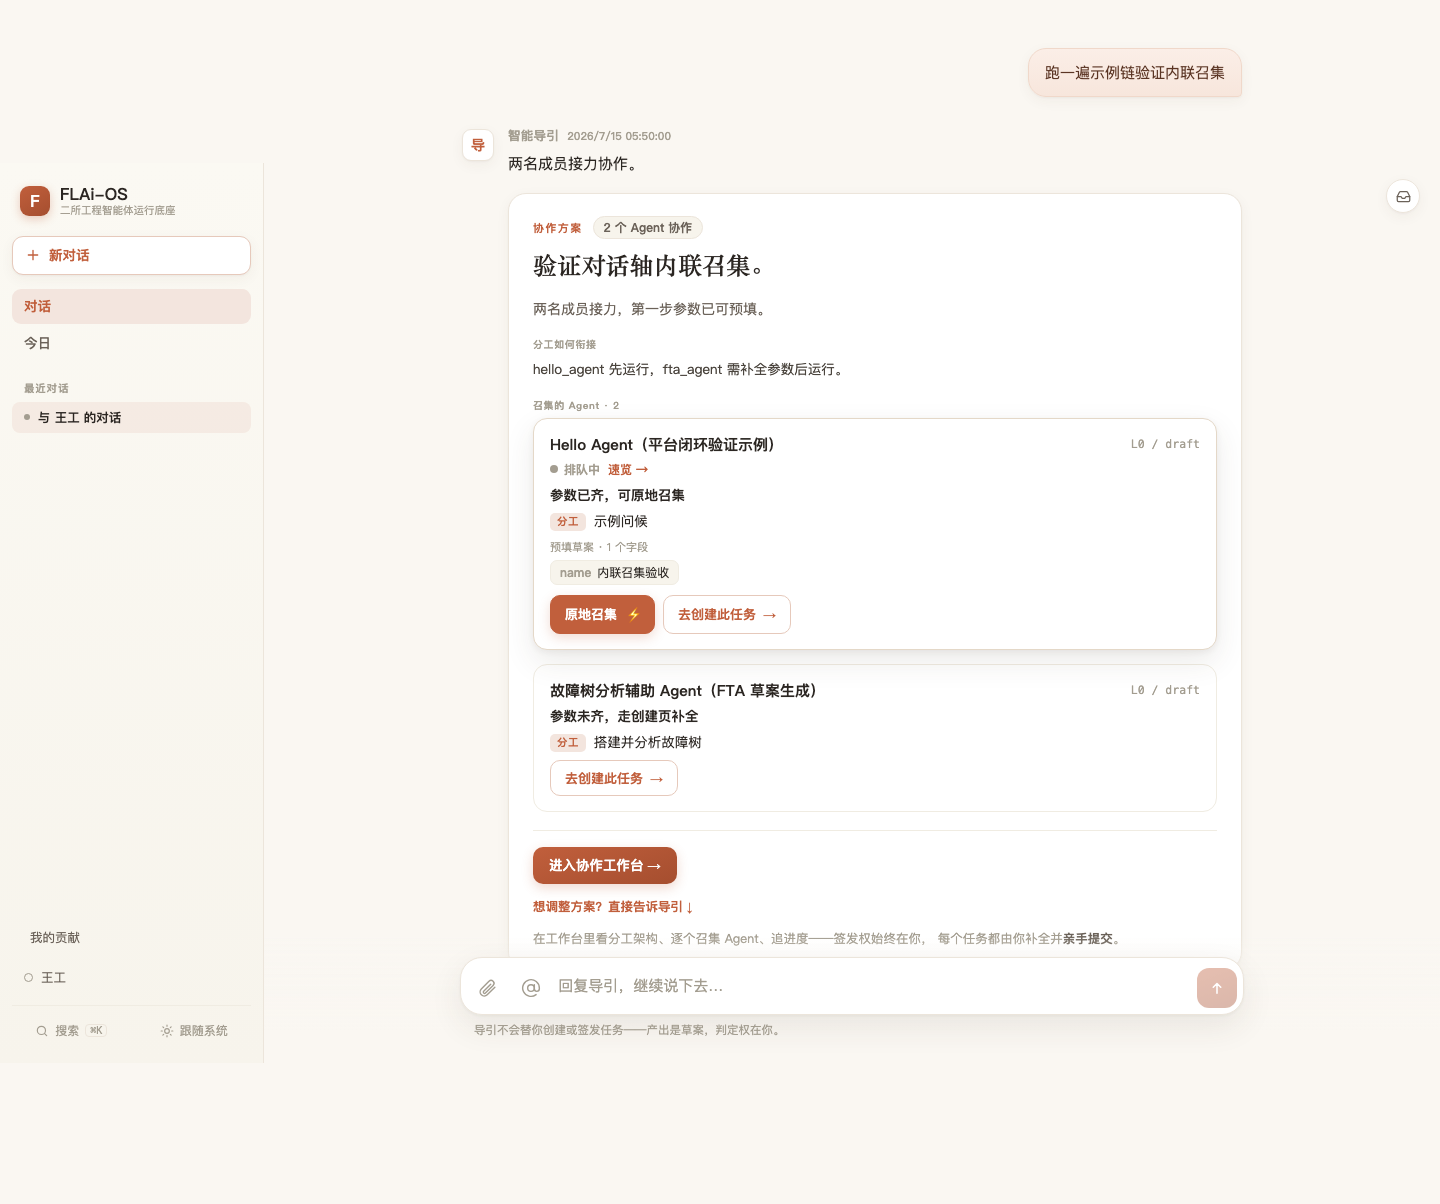
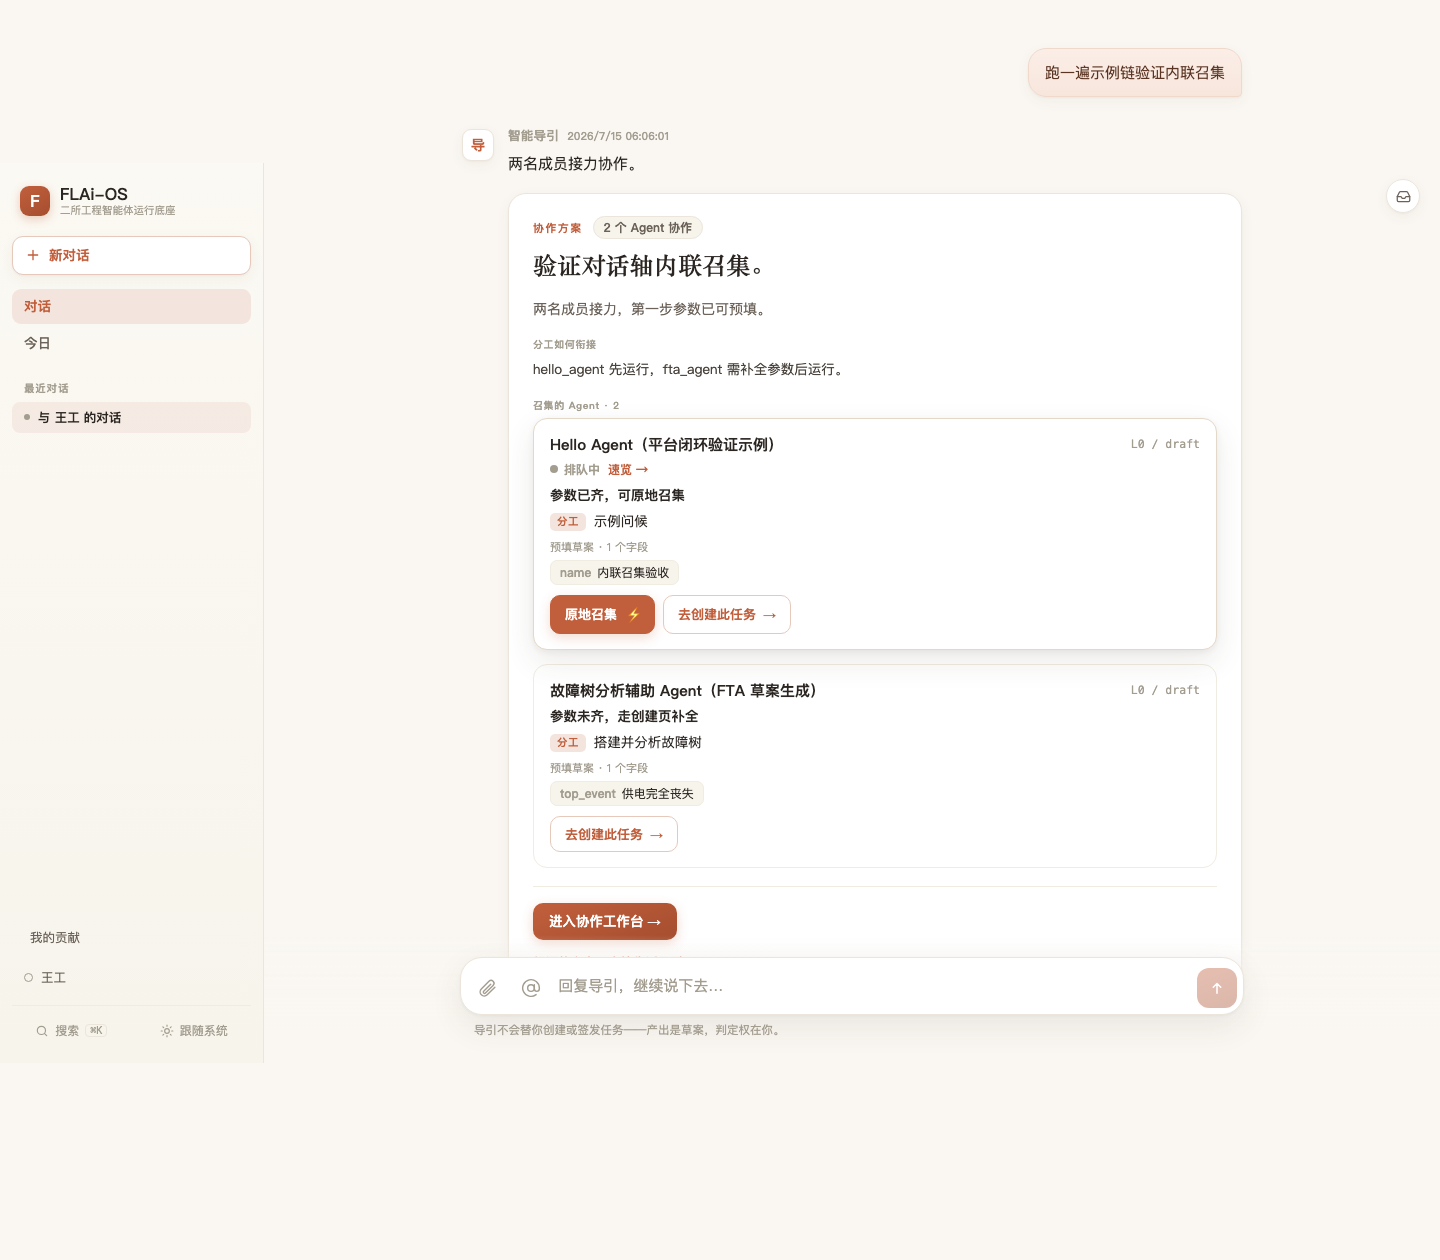
fix: 内联召集三门收紧——就绪判据/会话隔离/只读会话（Codex R0 全采）
R0 三 finding 逐条 grounded 复核属实后落地：

- [P1] 就绪判据：POST /api/tasks 不做即时 schema 校验（校验在 worker 运行期），
  「预填非空」不是就绪。改为预取 GET /api/agents/{id} 的 input_schema，
  required 逐键非空白才提供内联入口（agentSchemaCache，拉不到/未知 fail-closed
  回创建页路径）；e2e ① 对照组升级为部分预填（top_event 有、其余 required 缺）。
- [P1] 武装态会话隔离：inlineKey 加 conversationId 前缀 + watch(conversationId)
  即清 inlineArmed——确认态绝不跨会话存活，二击边界不被复用页面击穿。
- [P2] 只读会话：conversationStatus 从 getConversation/createConversation 如实
  带出（resetToFresh 置 null），渲染与确认双门都要求 active——concluded 会话
  不再展示注定 409 的入口；e2e 新增 ⑦ 归档后重开无内联入口。

e2e 14/14 绿（含新 ①对照/⑦ 两断言）。

confidence: high

diff --git a/frontend/src/views/GuidePage.vue b/frontend/src/views/GuidePage.vue
@@ -338,7 +338,7 @@ import { useRoute, useRouter } from "vue-router";
 import { ElMessage } from "element-plus";
 import { createConversation, postMessage, getConversation } from "../api/conversations";
 import { createTask } from "../api/tasks";
-import { listAgents } from "../api/agents";
+import { listAgents, getAgent } from "../api/agents";
 import { uploadFile as apiUploadFile } from "../api/files";
 import { categoryColor, categoryLabel, categoryTip, maturityTip, statusLabel, taskLampColor, TASK_WORK_STATES, formatTime } from "../utils/format";
 import { openTaskPeek } from "../stores/statusCenter";
@@ -521,6 +521,7 @@ async function send() {
     if (!conversationId.value) {
       const conv = await createConversation({ agentId: GUIDE_AGENT_ID });
       conversationId.value = conv.id;
+      conversationStatus.value = conv.status || "active";
       started.value = true;
       // URL 反映当前会话（可刷新/分享/回退），并让左栏历史即时收录这条新会话。
       router.replace({ path: "/", query: { c: conv.id } });
@@ -541,6 +542,7 @@ async function send() {
     });
     await scrollToBottom();
     ensureConversationTasksFeed(); // 本轮若刚给出 orchestrate 方案，开始为其召集状态保鲜
+    ensureAgentSchemasForMessages(); // 内联召集就绪判据的契约预取（fail-closed）
   } catch (err) {
     // 本轮失败：后端契约是「失败零落库」（幂等重试，ADR-0013），本地同样回滚
     // 乐观气泡并把原文还原到输入框——不在界面上留一条服务端不存在的幽灵消息，
@@ -588,18 +590,65 @@ function openWorkbench() {
 // 只在①多 Agent 方案（单 Agent 保留创建页 conclude_after 归档语义）②预填非空
 // ③会话无携带附件（附件必须经创建页人工过目）时提供；参数不全由 422 如实
 // 透出，引导走「去创建此任务」补全，绝不客户端猜校验。
-const inlineArmed = ref(null); // `${消息idx}:${agent_id}`——同 Agent 出现在两张方案卡不串态
+const inlineArmed = ref(null); // `${会话id}:${消息idx}:${agent_id}`（Codex R0-P1：跨会话绝不串态）
 const inlineBusy = ref(false);
+// 会话可写态（Codex R0-P2）：getConversation/createConversation 如实带出，concluded
+// 只读会话不提供内联召集（否则创建必 409）。未知（null）= fail-closed 不提供。
+const conversationStatus = ref(null);
+// Agent 输入契约缓存（Codex R0-P1）：POST /api/tasks 不做即时 schema 校验（校验在
+// worker 运行期），故「预填就绪」必须由前端按 input_schema.required 逐键判定后才
+// 提供内联路径——schema 拉不到 / 未知一律 fail-closed 回创建页路径。
+const agentSchemaCache = reactive({}); // agent_id -> { loaded: true, schema: object|null }
+
+// 会话切换（含 resetToFresh 置空）即撤武装——确认态绝不跨会话存活。
+watch(conversationId, () => {
+  inlineArmed.value = null;
+});
 
 function inlineKey(agent, idx) {
-  return `${idx}:${agent.agent_id}`;
+  return `${conversationId.value || "none"}:${idx}:${agent.agent_id}`;
+}
+
+function prefillSatisfiesSchema(schema, prefilled) {
+  // 就绪判据（纯函数，fail-closed）：schema 存在、required 明确、每个必填键在预填里
+  // 且非空白。这只是「提供内联入口」的门槛，不替代服务端/worker 的权威校验。
+  if (!schema || typeof schema !== "object") return false;
+  const required = Array.isArray(schema.required) ? schema.required : null;
+  if (required === null) return false;
+  return required.every((k) => {
+    const v = (prefilled || {})[k];
+    return v !== undefined && v !== null && String(v).trim() !== "";
+  });
+}
+
+function ensureAgentSchemasForMessages() {
+  // 方案卡出现（新回复或历史恢复）即预取成员 Agent 的输入契约；失败记 null=不就绪。
+  for (const m of messages.value) {
+    const plan = m && m.recommendation;
+    if (!plan || plan.decision !== "orchestrate" || !Array.isArray(plan.agents)) continue;
+    for (const a of plan.agents) {
+      const id = a.agent_id;
+      if (!id || id in agentSchemaCache) continue;
+      agentSchemaCache[id] = { loaded: false, schema: null };
+      getAgent(id)
+        .then((detail) => {
+          agentSchemaCache[id] = { loaded: true, schema: (detail && detail.input_schema) || null };
+        })
+        .catch(() => {
+          agentSchemaCache[id] = { loaded: true, schema: null };
+        });
+    }
+  }
 }
 
 function canInlineSummon(agent, plan) {
+  const cached = agentSchemaCache[agent.agent_id];
   return (
     !!conversationId.value &&
+    conversationStatus.value === "active" &&
     plan && Array.isArray(plan.agents) && plan.agents.length > 1 &&
-    Object.keys(agent.prefilled_inputs || {}).length > 0 &&
+    !!cached && cached.loaded === true &&
+    prefillSatisfiesSchema(cached.schema, agent.prefilled_inputs || {}) &&
     collectCarriedFiles().length === 0
   );
 }
@@ -610,6 +659,12 @@ function armInlineSummon(agent, idx) {
 
 async function confirmInlineSummon(agent) {
   if (inlineBusy.value === true) return;
+  // 确认时再验一遍会话可写态（fail-closed：渲染后会话可能已被归档）
+  if (conversationStatus.value !== "active") {
+    ElMessage.error("本会话已归档（只读），不能再召集——如需继续，请开启新协作。");
+    inlineArmed.value = null;
+    return;
+  }
   inlineBusy.value = true;
   try {
     await createTask({
@@ -623,7 +678,7 @@ async function confirmInlineSummon(agent) {
     inlineArmed.value = null;
     ensureConversationTasksFeed(); // 督战 chip 保鲜：召集即接上会话任务订阅
   } catch (err) {
-    // fail-closed 如实透出：常见为 422 预填不全——引导走创建页补全，不静默
+    // fail-closed 如实透出（409 已归档 / 校验拒绝等），并引导走创建页路径，不静默
     ElMessage.error(err.detail || err.message || "召集失败——请走「去创建此任务」补全参数后亲手提交");
   } finally {
     inlineBusy.value = false;
@@ -736,6 +791,7 @@ function resetToFresh(clearError = true) {
   messages.value = [];
   started.value = false;
   conversationId.value = "";
+  conversationStatus.value = null;
   draft.value = "";
   pendingFiles.value = [];
   releaseConversationTasksFeed();
@@ -753,6 +809,7 @@ async function loadConversation(id) {
   try {
     const conv = await getConversation(id);
     conversationId.value = conv.id;
+    conversationStatus.value = conv.status || null; // 只读会话如实带出（Codex R0-P2）
     started.value = true;
     messages.value = (conv.messages || []).map((m) => ({
       role: m.role,
@@ -763,6 +820,7 @@ async function loadConversation(id) {
     }));
     await scrollToBottom();
     ensureConversationTasksFeed(); // 恢复的历史会话若已带 orchestrate 方案，立即接上订阅
+    ensureAgentSchemasForMessages(); // 历史方案卡同样预取输入契约（内联就绪判据）
   } catch (err) {
     pageError.value = err.detail || err.message || "会话加载失败";
   } finally {

diff --git a/frontend/e2e/inline_summon_acceptance.py b/frontend/e2e/inline_summon_acceptance.py
@@ -2,12 +2,14 @@
 
 范式 2a 补刀（owner 2026-07-15 拍板）：多 Agent 方案 + 预填齐 + 无携带附件时，
 人可在方案卡上两击（原地召集 → 确认召集）完成召集，零跳页。验收面：
-  ① 预填非空的 Agent 显示「原地召集」；预填为空的对照 Agent 不显示（只留创建页路径）；
+  ① 预填齐 required 的 Agent 显示「原地召集」；**部分预填**的对照 Agent 不显示
+     （POST /api/tasks 不做即时校验，就绪门必须在提供入口前咬住——Codex R0-P1）；
   ② 点「原地召集」只进入确认态——**此刻会话任务数=0（导引不代召集铁证）**；
   ③ 点「再想想」退出确认态，任务数仍=0（反悔无副作用）；
   ④ 重新武装 →「确认召集」→ 任务真实创建：agent_id / conversation_id / inputs 与预填一致；
   ⑤ 零跳页：URL 仍 /?c=<conv>，督战 chip（.agent-status）原地亮起；
-  ⑥ e2e 锚点不破：「去创建此任务」按钮仍在（m9 back=chat 契约路径原样保留）。
+  ⑥ e2e 锚点不破：「去创建此任务」按钮仍在（m9 back=chat 契约路径原样保留）；
+  ⑦ 会话归档（concluded）后重开：内联入口整体消失（只读会话不可召集——Codex R0-P2）。
 
 自包含：自起后端（tmp DB）+ stub gateway + 真 chromium，不起 worker。
 
@@ -56,7 +58,8 @@ PREFILLED_NAME = "内联召集验收"
 
 
 class _StubGateway:
-    """两名成员：hello_agent 预填齐（应有原地召集）；fta_agent 预填空（对照，不应有）。"""
+    """两名成员：hello_agent 预填齐 required（应有原地召集）；fta_agent 只预填
+    top_event（required 还差 system_description/components——就绪门应咬住不提供）。"""
 
     def chat(self, profile: str, messages: list[dict[str, Any]], **kwargs: Any) -> dict[str, Any]:
         plan = {
@@ -75,7 +78,7 @@ class _StubGateway:
                     "agent_id": "fta_agent",
                     "role": "搭建并分析故障树",
                     "rationale": "参数未齐，走创建页补全",
-                    "prefilled_inputs": {},
+                    "prefilled_inputs": {"top_event": "供电完全丧失"},
                 },
             ],
         }
@@ -154,7 +157,7 @@ with sync_playwright() as p:
         hello_card.get_by_role("button", name="原地召集").count() == 1,
     )
     check(
-        "①对照：预填空的成员不显示「原地召集」",
+        "①对照：部分预填（top_event 有、其余 required 缺）不显示「原地召集」",
         fta_card.get_by_role("button", name="原地召集").count() == 0,
     )
     page.screenshot(path=str(SHOTS / "1_plan_card_inline_cta.png"), full_page=True)
@@ -204,6 +207,18 @@ with sync_playwright() as p:
         "⑥「去创建此任务」按钮原样保留",
         page.get_by_role("button", name="去创建此任务").count() >= 2,
     )
+
+    # ⑦ 归档会话重开 → 只读，不提供内联召集（创建必 409，入口就不该有）
+    resp = API.post(f"/api/conversations/{conv_id}/conclude")
+    check("⑦归档 API 生效", resp.status_code == 200, f"status={resp.status_code}")
+    page.goto(BASE + f"/?c={conv_id}", wait_until="networkidle")
+    page.wait_for_selector(".plan-card", timeout=8000)
+    page.wait_for_timeout(800)  # schema 预取窗口——就绪也不该显示（status 门优先）
+    check(
+        "⑦concluded 会话不提供「原地召集」（只读）",
+        page.get_by_role("button", name="原地召集").count() == 0,
+    )
+    page.screenshot(path=str(SHOTS / "4_concluded_readonly.png"), full_page=True)
 
     browser.close()
 
